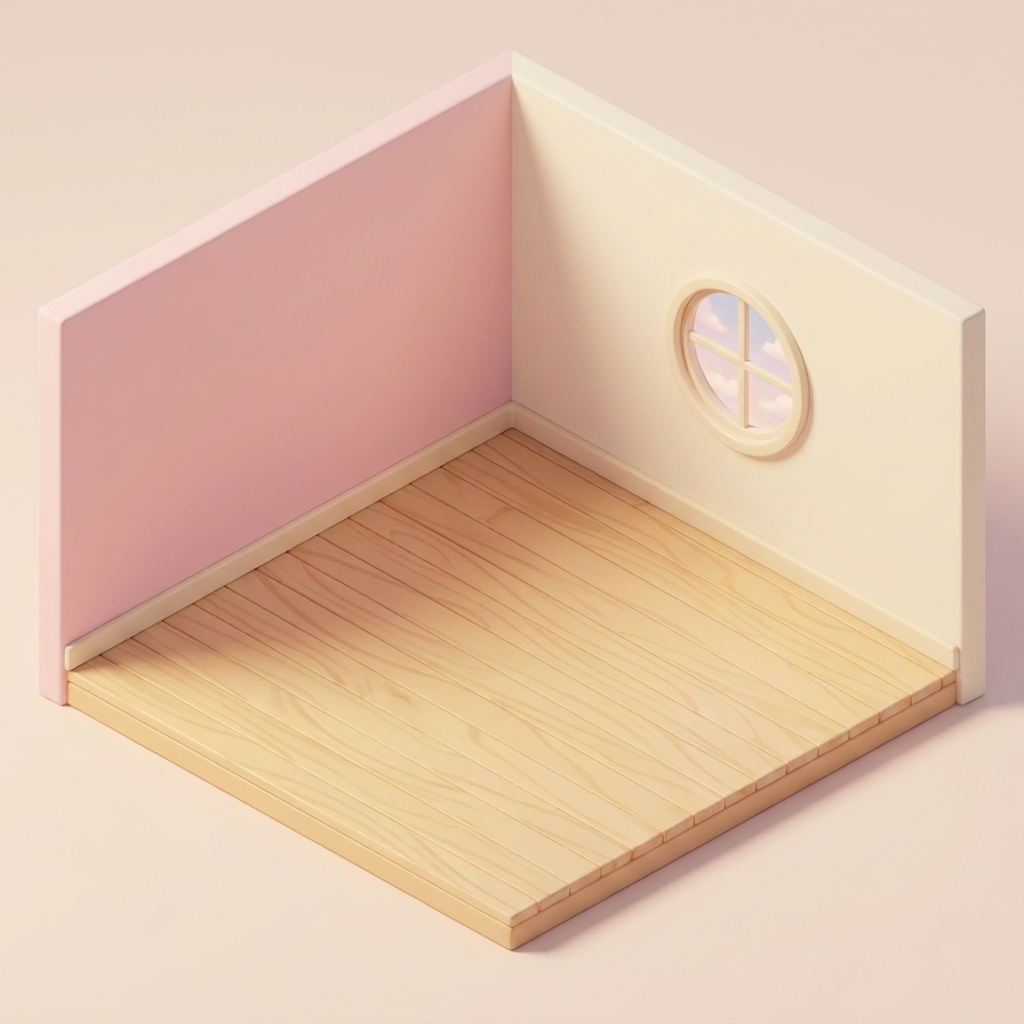
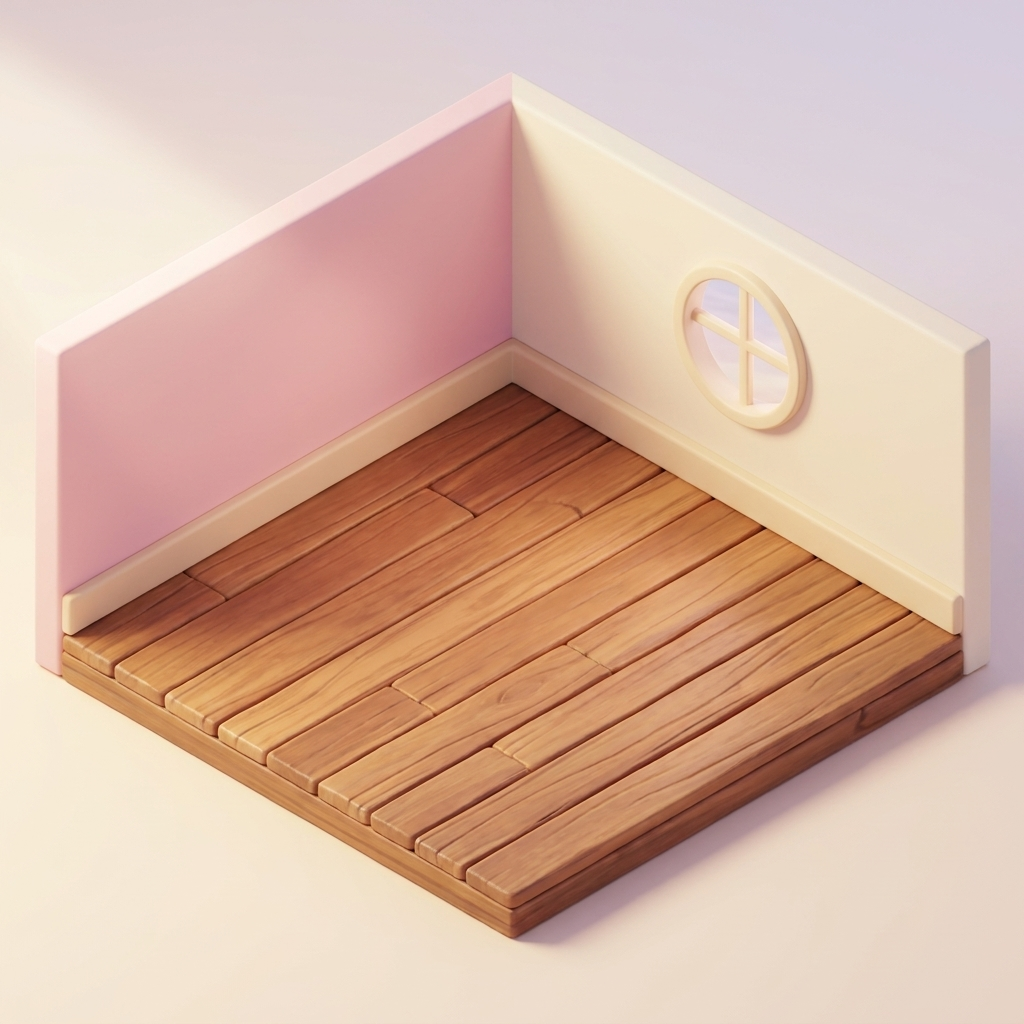
Bigger home room — larger floor footprint for more decorating space

diff --git a/sw.js b/sw.js
@@ -1,4 +1,4 @@
-const CACHE = 'lila-v11';
+const CACHE = 'lila-v12';
 const IMG_ASSETS = [
   './assets/lila/hero.png', './assets/lila/celebrate.png', './assets/lila/celebrate_loop.mp4', './assets/lila/sleep.png',
   './assets/lila/world.png', './assets/lila/world_asleep.png',